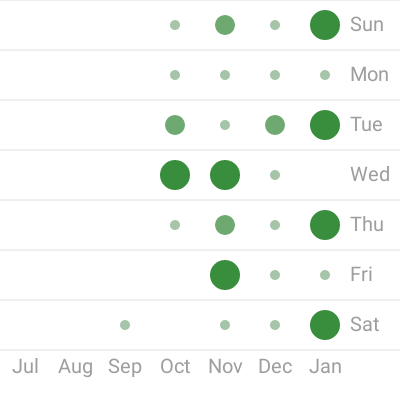
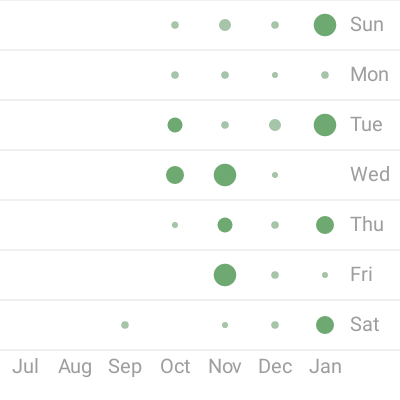
Merge pull request #1425 from eduebernal/freq-display-normal
fix marker scaling in frequency display

diff --git a/uhabits-android/src/main/java/org/isoron/uhabits/activities/common/views/FrequencyChart.kt b/uhabits-android/src/main/java/org/isoron/uhabits/activities/common/views/FrequencyChart.kt
@@ -29,6 +29,7 @@ import org.isoron.uhabits.core.utils.DateUtils.Companion.getShortWeekdayNames
 import org.isoron.uhabits.core.utils.DateUtils.Companion.getStartOfTodayCalendar
 import org.isoron.uhabits.core.utils.DateUtils.Companion.getStartOfTodayCalendarWithOffset
 import org.isoron.uhabits.core.utils.DateUtils.Companion.getWeekdaySequence
+import org.isoron.uhabits.core.utils.DateUtils.Companion.getWeekdaysInMonth
 import org.isoron.uhabits.utils.ColorUtils.mixColors
 import org.isoron.uhabits.utils.StyledResources
 import org.isoron.uhabits.utils.toSimpleDataFormat
@@ -62,7 +63,6 @@ class FrequencyChart : ScrollableChart {
     private var primaryColor = 0
     private var isBackgroundTransparent = false
     private lateinit var frequency: HashMap<Timestamp, Array<Int>>
-    private var maxFreq = 0
     private var firstWeekday = Calendar.SUNDAY
 
     constructor(context: Context?) : super(context) {
@@ -82,22 +82,12 @@ class FrequencyChart : ScrollableChart {
 
     fun setFrequency(frequency: java.util.HashMap<Timestamp, Array<Int>>) {
         this.frequency = frequency
-        maxFreq = getMaxFreq(frequency)
         postInvalidate()
     }
 
     fun setFirstWeekday(firstWeekday: Int) {
         this.firstWeekday = firstWeekday
         postInvalidate()
-    }
-
-    private fun getMaxFreq(frequency: HashMap<Timestamp, Array<Int>>): Int {
-        var maxValue = 1
-        for (values in frequency.values) for (value in values) maxValue = max(
-            value,
-            maxValue
-        )
-        return maxValue
     }
 
     fun setIsBackgroundTransparent(isBackgroundTransparent: Boolean) {
@@ -166,6 +156,7 @@ class FrequencyChart : ScrollableChart {
 
     private fun drawColumn(canvas: Canvas, rect: RectF?, date: GregorianCalendar) {
         val values = frequency[Timestamp(date)]
+        val weekDaysInMonth = getWeekdaysInMonth(Timestamp(date))
         val rowHeight = rect!!.height() / 8.0f
         prevRect!!.set(rect)
         val localeWeekdayList: Array<Int> = getWeekdaySequence(firstWeekday)
@@ -174,7 +165,7 @@ class FrequencyChart : ScrollableChart {
             rect.offset(prevRect!!.left, prevRect!!.top + baseSize * j)
             val i = localeWeekdayList[j] % 7
             if (values != null)
-                drawMarker(canvas, rect, values[i])
+                drawMarker(canvas, rect, values[i], weekDaysInMonth[i])
             rect.offset(0f, rowHeight)
         }
         drawFooter(canvas, rect, date)
@@ -222,7 +213,7 @@ class FrequencyChart : ScrollableChart {
         canvas.drawLine(rGrid.left, rGrid.top, rGrid.right, rGrid.top, pGrid!!)
     }
 
-    private fun drawMarker(canvas: Canvas, rect: RectF?, value: Int?) {
+    private fun drawMarker(canvas: Canvas, rect: RectF?, value: Int?, frequency: Int) {
         // value can be negative when the entry is skipped
         val valueCopy = value?.let { max(0, it) }
 
@@ -230,7 +221,8 @@ class FrequencyChart : ScrollableChart {
         // maximal allowed mark radius
         val maxRadius = (rect.height() - 2 * padding) / 2.0f
         // the real mark radius is scaled down by a factor depending on the maximal frequency
-        val scale = 1.0f / maxFreq * valueCopy!!
+
+        val scale = 1.0f / frequency * valueCopy!!
         val radius = maxRadius * scale
         val colorIndex = min((colors.size - 1), ((colors.size - 1) * scale).roundToInt())
         pGraph!!.color = colors[colorIndex]
@@ -293,6 +285,5 @@ class FrequencyChart : ScrollableChart {
             frequency[Timestamp(date)] = values
             date.add(Calendar.MONTH, -1)
         }
-        maxFreq = getMaxFreq(frequency)
     }
 }

diff --git a/uhabits-core/src/jvmMain/java/org/isoron/uhabits/core/utils/DateUtils.kt b/uhabits-core/src/jvmMain/java/org/isoron/uhabits/core/utils/DateUtils.kt
@@ -19,6 +19,7 @@
 package org.isoron.uhabits.core.utils
 
 import org.isoron.uhabits.core.models.Timestamp
+import java.time.YearMonth
 import java.util.Calendar
 import java.util.Calendar.DAY_OF_MONTH
 import java.util.Calendar.DAY_OF_WEEK
@@ -176,6 +177,26 @@ abstract class DateUtils {
         @JvmStatic
         fun getShortWeekdayNames(firstWeekday: Int): Array<String> {
             return getWeekdayNames(GregorianCalendar.SHORT, firstWeekday)
+        }
+
+        /**
+         * Returns a vector of Int representing the frequency of each weekday in a given month.
+         *
+         * @param startOfMonth a Timestamp representing the beginning of the month.
+         */
+        @JvmStatic
+        fun getWeekdaysInMonth(startOfMonth: Timestamp): Array<Int> {
+            val month = startOfMonth.toCalendar()[Calendar.MONTH] + 1
+            val year = startOfMonth.toCalendar()[Calendar.YEAR]
+            val weekday = startOfMonth.weekday
+            val monthLength = YearMonth.of(year, month).lengthOfMonth()
+
+            val freq = Array(7) { 0 }
+            for (day in weekday until weekday + monthLength) {
+                freq[day % 7] += 1
+            }
+
+            return freq
         }
 
         @JvmStatic

diff --git a/uhabits-core/src/jvmTest/java/org/isoron/uhabits/core/utils/DateUtilsTest.kt b/uhabits-core/src/jvmTest/java/org/isoron/uhabits/core/utils/DateUtilsTest.kt
@@ -119,6 +119,31 @@ class DateUtilsTest : BaseUnitTest() {
     }
 
     @Test
+    fun getWeekdaysInMonth() {
+        val february = GregorianCalendar(2018, Calendar.FEBRUARY, 1)
+        val leapFebruary = GregorianCalendar(2020, Calendar.FEBRUARY, 1)
+        val month = GregorianCalendar(2020, Calendar.APRIL, 1)
+        val longMonth = GregorianCalendar(2020, Calendar.AUGUST, 1)
+
+        assertThat(
+            arrayOf(4, 4, 4, 4, 4, 4, 4),
+            equalTo(DateUtils.getWeekdaysInMonth(Timestamp(february)))
+        )
+        assertThat(
+            arrayOf(5, 4, 4, 4, 4, 4, 4),
+            equalTo(DateUtils.getWeekdaysInMonth(Timestamp(leapFebruary)))
+        )
+        assertThat(
+            arrayOf(4, 4, 4, 4, 5, 5, 4),
+            equalTo(DateUtils.getWeekdaysInMonth(Timestamp(month)))
+        )
+        assertThat(
+            arrayOf(5, 5, 5, 4, 4, 4, 4),
+            equalTo(DateUtils.getWeekdaysInMonth(Timestamp(longMonth)))
+        )
+    }
+
+    @Test
     fun testGetToday() {
         setFixedLocalTime(FIXED_LOCAL_TIME)
         val today = DateUtils.getToday()
